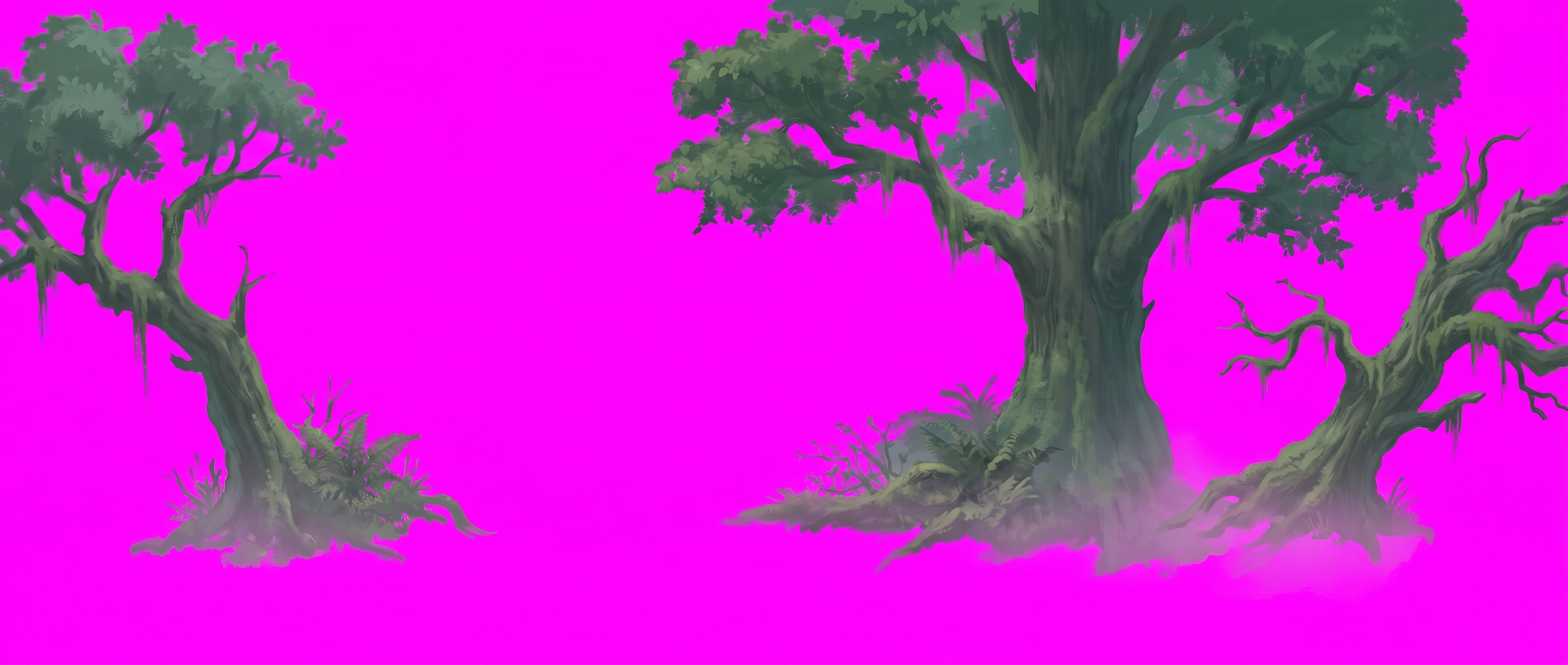
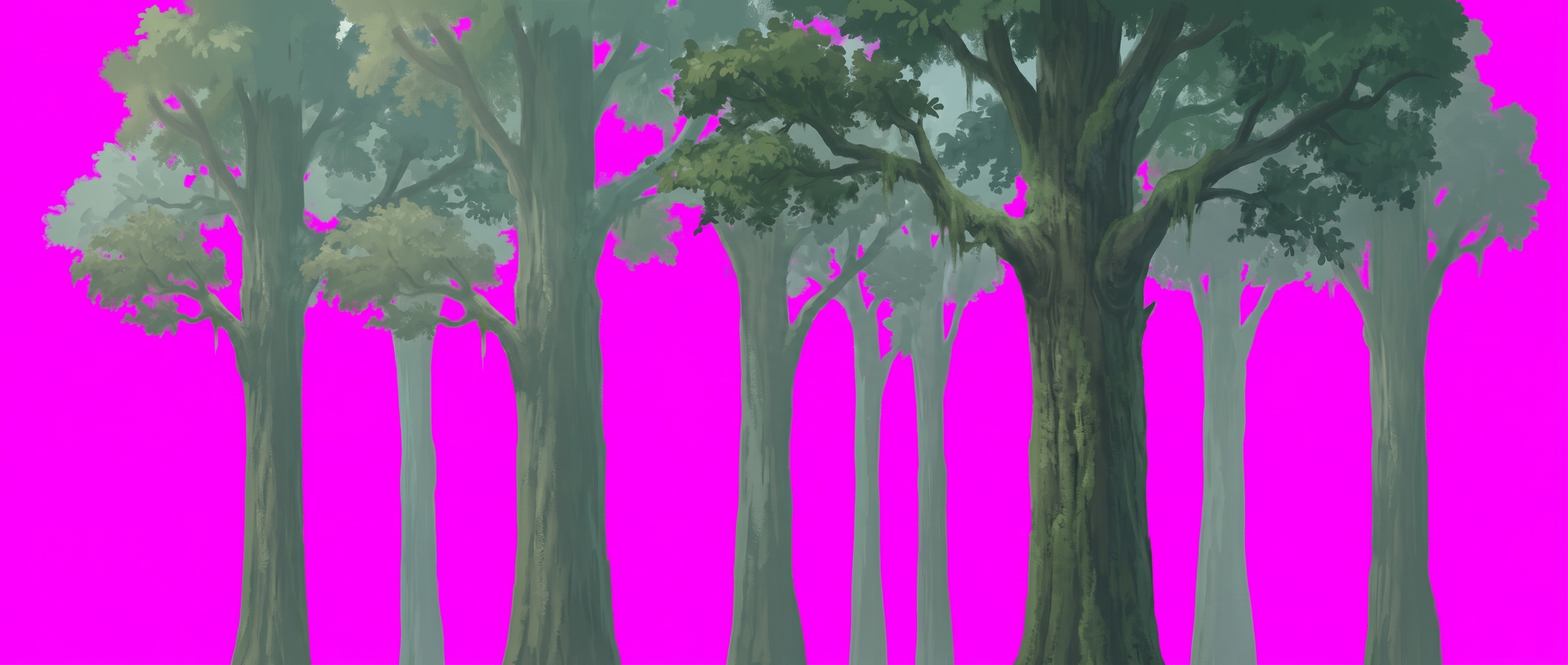
Painted near foliage as top and bottom strips; second middle-layer option

diff --git a/art.js b/art.js
@@ -4,7 +4,7 @@
 // Note: browsers block image files opened via file://, so real art needs a local server
 // (e.g. `python3 -m http.server` in this folder, then open http://localhost:8000).
 const Art = {
-  FILES: ['sky', 'far', 'mid', 'near', 'ground', 'moss'],
+  FILES: ['sky', 'far', 'mid', 'midAlt', 'near', 'nearTop', 'nearBottom', 'ground', 'moss'],
   W: 960,
   H: 544,
 
@@ -111,13 +111,19 @@ const Art = {
   // the less it moves. Draw order: sky, far, light shafts, mid, mist, [level], near, dust, vignette.
   backdrop(scene) {
     // Each plane repeats sideways and scrolls at a fraction of the camera's speed.
-    const layer = (key, depth, f) => {
-      const ts = scene.add.tileSprite(0, 0, this.W, this.H, key).setOrigin(0).setDepth(depth).setScrollFactor(0);
-      const s = this.H / scene.textures.get(key).getSourceImage().height;
+    // A strip h tall, at the top of the screen or the bottom, drawn at `scale` (default: fit the screen height).
+    const layer = (key, depth, f, h = this.H, atBottom = false, scale) => {
+      const ts = scene.add.tileSprite(0, atBottom ? this.H - h : 0, this.W, h, key).setOrigin(0).setDepth(depth).setScrollFactor(0);
+      const s = scale ?? this.H / scene.textures.get(key).getSourceImage().height;
       ts.setTileScale(s, s);
       return { ts, f };
     };
-    const a = (scene.art = { layers: [layer('sky', -100, 0.03), layer('far', -90, 0.12), layer('mid', -80, 0.3), layer('near', 10, 1.25)] });
+    // Painted foreground comes as two strips: branches hanging from the top, and only the tips of the
+    // ferns along the bottom, so foliage never hides the hero on the floor.
+    const near = scene.textures.exists('nearTop')
+      ? [layer('nearTop', 10, 1.25, 190, false, 0.5), layer('nearBottom', 10, 1.25, 44, true, 0.5)]
+      : [layer('near', 10, 1.25)];
+    const a = (scene.art = { layers: [layer('sky', -100, 0.03), layer('far', -90, 0.12), layer('mid', -80, 0.3), ...near] });
 
     a.shafts = scene.add.graphics().setDepth(-85).setBlendMode(Phaser.BlendModes.ADD).setScrollFactor(0);
     for (let i = 0; i < 4; i++) {
